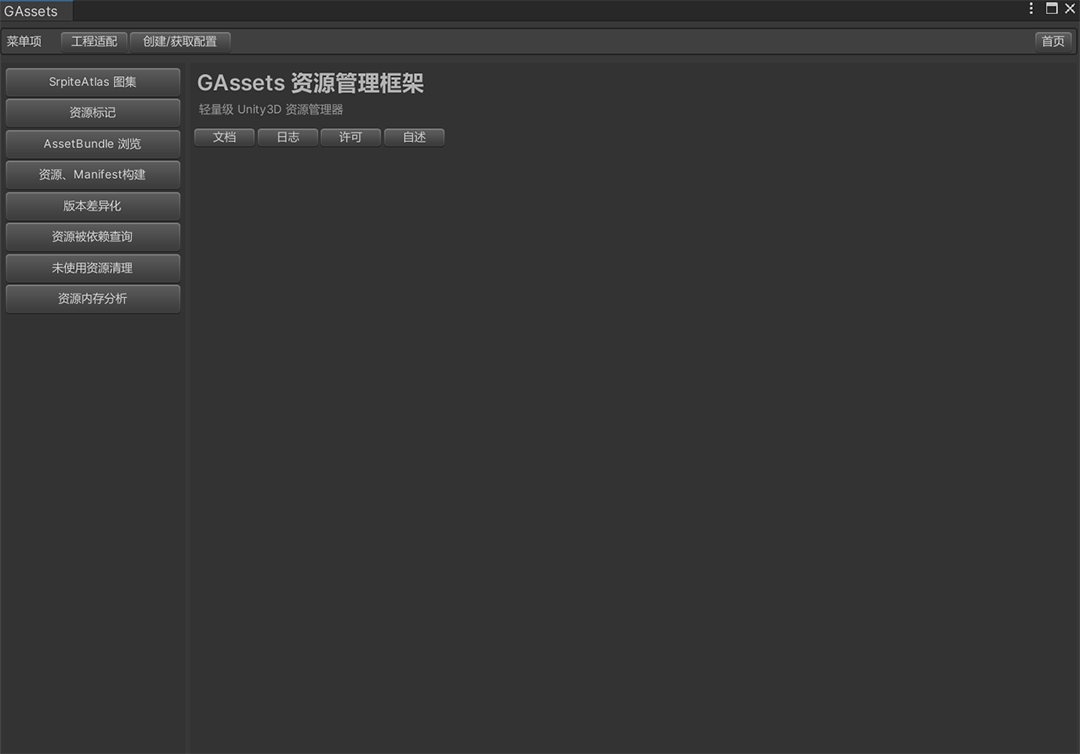
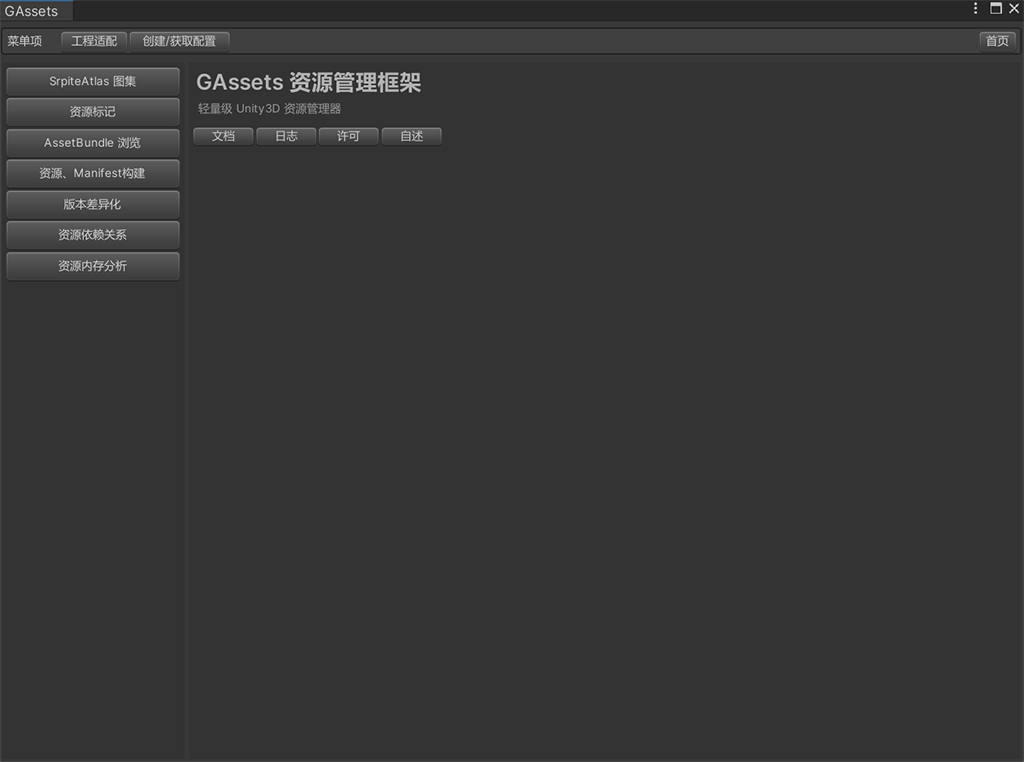
修改相关的说明文档及版本号。同时，解决因Assets字段导致资源标记失败的问题

Changed region(s): [[0.0, 0.0915, 0.4375, 0.4271], [0.0, 0.0, 0.2188, 0.061], [0.9375, 0.0, 1.0, 0.061]]

diff --git a/Editor/GAssetEditOperate_MarkAndUnmark.cs b/Editor/GAssetEditOperate_MarkAndUnmark.cs
@@ -160,9 +160,7 @@ namespace cngraphi.gassets.editor
                 string foldername = "";
                 if (!m_singleMark)
                 {//以目录名称进行标记
-                    string _p = s.Substring(s.IndexOf("Assets"));
-                    _p = cngraphi.gassets.common.Paths.Replace(_p);
-                    Str.Split(_p, "/", out List<string> lst);
+                    Str.Split(Paths.GetPathStartWithAssets(s), "/", out List<string> lst);
                     string[] dirnames = lst.ToArray();
                     foldername = dirnames[dirnames.Length - 1];
                 }
@@ -184,7 +182,7 @@ namespace cngraphi.gassets.editor
                     string p = f.FullName;
                     if (Path.GetExtension(p) == ".meta") { continue; }
 
-                    AssetImporter ai = AssetImporter.GetAtPath(p.Substring(p.IndexOf("Assets")));
+                    AssetImporter ai = AssetImporter.GetAtPath(Paths.GetPathStartWithAssets(p));
                     string assetbundleName;
                     if (m_singleMark)
                         assetbundleName = Path.GetFileNameWithoutExtension(p);
@@ -223,7 +221,7 @@ namespace cngraphi.gassets.editor
             }
             foreach (string p in reslist)
             {
-                AssetImporter ai = AssetImporter.GetAtPath(p.Substring(p.IndexOf("Assets")));
+                AssetImporter ai = AssetImporter.GetAtPath(Paths.GetPathStartWithAssets(p));
                 if (b)
                 {
                     ai.assetBundleName = m_markCustomname;

diff --git a/Runtime/Common/Paths.cs b/Runtime/Common/Paths.cs
@@ -87,5 +87,24 @@ namespace cngraphi.gassets.common
             return Replace(newpath);
         }
 
+
+
+        /// <summary>
+        /// 将 unity 工程内的资源或目录的路径转为以 ‘Assets’ 为开头的路径
+        /// </summary>
+        /// <param name="p">路径（例如：F:/CustomProject/Assets/custom.png）</param>
+        /// <returns>以 ‘Assets’ 为开头的路径</returns>
+        static public string GetPathStartWithAssets(string p)
+        {
+            if (string.IsNullOrEmpty(p)) { return p; }
+            if (p.StartsWith("Assets")) { return p; } // 若已经是以 Assets 为开头的路径则直接返回，不做任何处理
+
+            string newp = $"Assets{p[Application.dataPath.Length..]}";
+            newp = Replace(newp);
+            //Debug.Log(newp);
+
+            return newp;
+        }
+
     }
 }

diff --git a/CHANGELOG.md b/CHANGELOG.md
@@ -1,5 +1,10 @@
 # 更新日志
 
+### [2.1.0] - [2024-11-08]
+>1. 优化资源管理器控制面板，将原有的未使用资源清理页签移除，并增加资源依赖关系页签及相关功能；
+>2. 解决在做资源标记操作时，对于路径Assets字段不正确处理而导致无法标记的问题；
+>3. 优化资源管理器的配置工具，移除未使用资源清理功能使用的配置字段。同时，将资源备份目录的设置由绝对路径修改为相对路径；
+
 ### [2.0.9] - [2024-10-17]
 >1. 优化资源内存分析工具，为大量数据在 GUI 渲染显示中增加稳定性。
 
